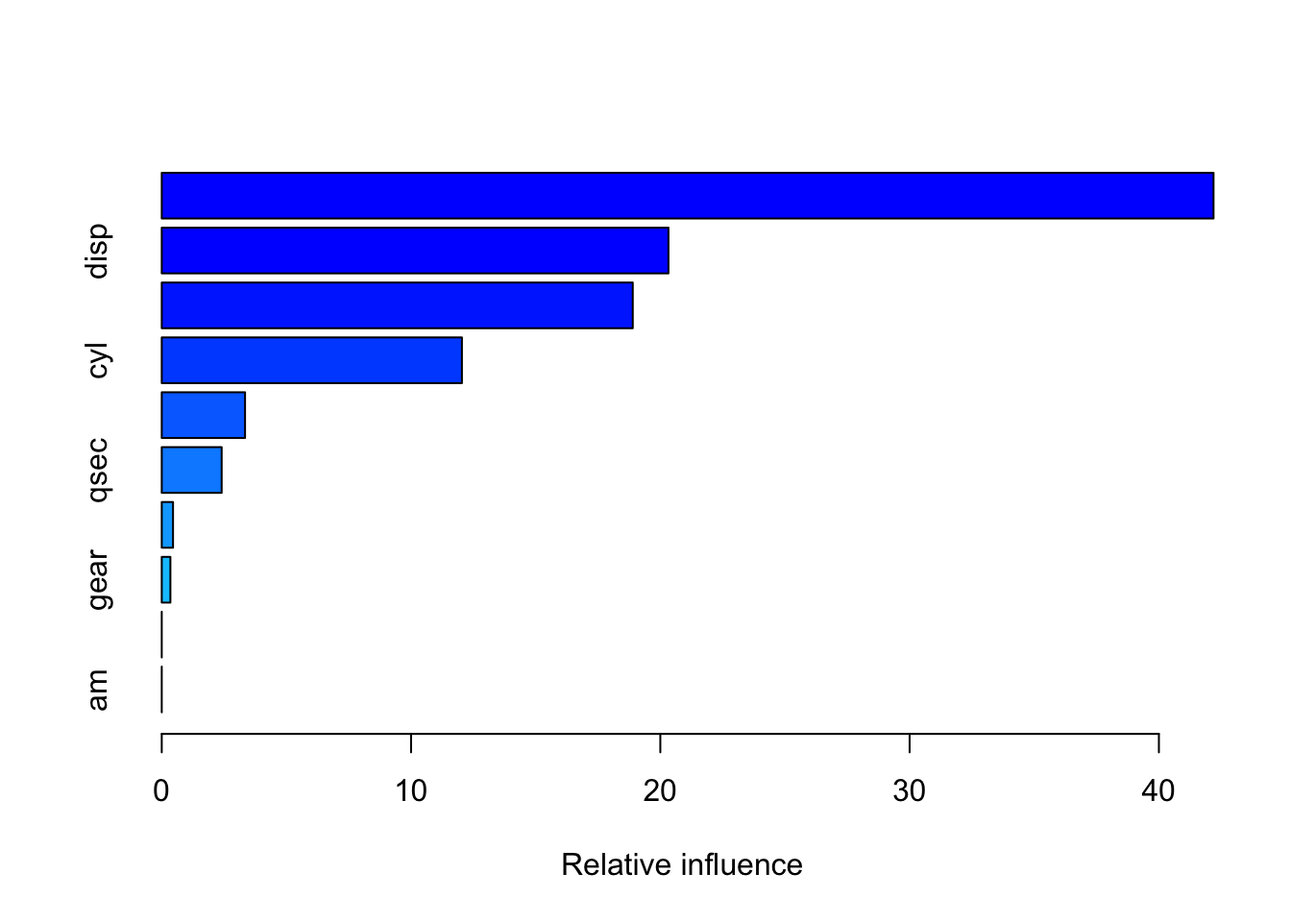
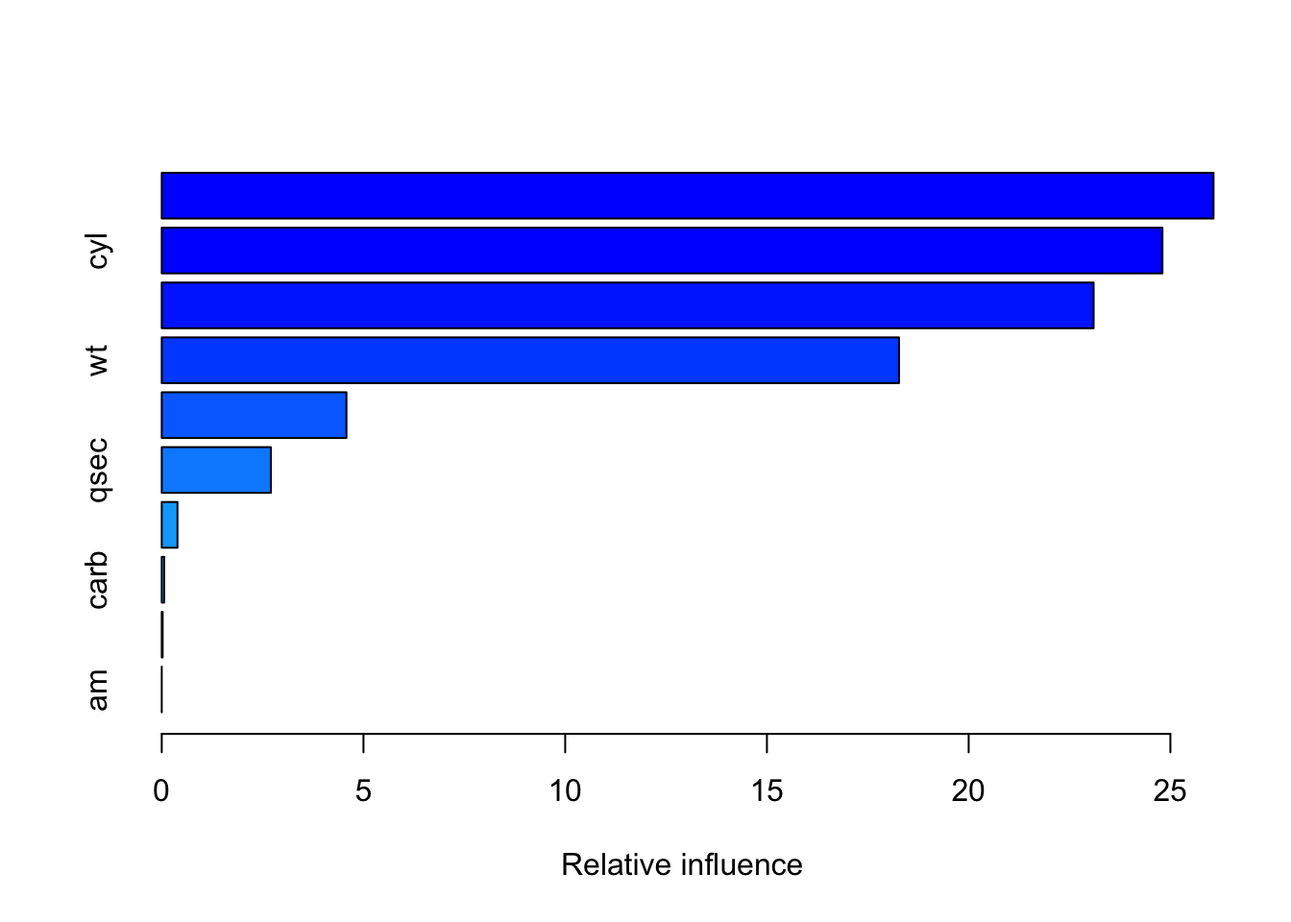
Built site for gh-pages

diff --git a/community.html b/community.html
@@ -210,6 +210,25 @@ Sleekersoft Pty/Ltd</p>
 <p>Very impressive arguments and establishes the point of the title of the talk. The arguments proves the thesis of the talk.</p>
 </blockquote>
 <hr>
+<p><strong>Ozan Evkaya</strong><br>
+University of Edinburgh / R-user group Edinburgh</p>
+<p><img src="community-images/Ozan_Evkaya.png" class="img-fluid" style="width:40.0%"></p>
+<blockquote class="blockquote">
+<p>Some parts feel like generic in terms of explanation, can be more explicit. Mission can be more shortened and targeting one or two at most from the given list Under 1.3 it says Side-by-side analysis so if this is the case code-output pairs should be presented in each of the other related topic blogs in my view.</p>
+</blockquote>
+<p><strong>His opinion on the podcast:</strong></p>
+<blockquote class="blockquote">
+<p>Sounds interesting, well structured but I can feel that generated by AI if I am not wrong : ) Cool supplementary material indeed as a podcast as long as the main content is actually is human written I believe but I can not prove: D I guess there should be some fact chacking since it said Journal of Statistical Software by Biometrics If I heard correctly, this should not be the truth as I checked.</p>
+</blockquote>
+<p><strong>His recommendations to improve content:</strong></p>
+<blockquote class="blockquote">
+<p>For <a href="https://oppkey.github.io/r-beats-python/blog/data-visualization-r-vs-python.html">Data Visualization: R’s ggplot2 vs Python’s matplotlib</a>: For this part “While Python has made progress with libraries like matplotlib, seaborn, and plotly” good to mention nineplot as the alternative of ggplot in python but it seems still limited, also good to highlight altair package in python in addition to seaborn. Better to add their links</p>
+<p>Good to have clickable code and output, directly visible but still with just one example 2.1 and 2.2 comparison does not make sense to me, maybe good to give couple of examples and share the code in R and python side by side</p>
+<p>Good to share their codes and outputs together and maybe it is better to mention their pros and cons via both coding and outcome side Possibly some of the functions in nineplot can reduce the complexity on the created code examples but good to search and double check</p>
+<p>Shinny discussion can be be obsolote since Posit made shiny available for python at a certain level during the last couple of years, I might be careful about this section in general</p>
+<p>In general for me, the list given in 7.3 is incomplete when I think about the ggplot extensions gallery. For part 8, in my understanding, altair in python is a kind of declarative package so python column seems like missing wrt the available packages out there and can be misleading in terms of the given information</p>
+</blockquote>
+<hr>
 <p><strong>Simisani Ndaba</strong><br>
 University of Botswana, co-founder and co-organizer of the R-Ladies Gaborone group</p>
 <p><img src="community-images/simisani_ndaba2.png" class="img-fluid" style="width:40.0%"></p>
@@ -591,53 +610,78 @@ window.document.addEventListener("DOMContentLoaded", function (event) {
 <span id="cb1-39"><a href="#cb1-39" aria-hidden="true" tabindex="-1"></a></span>
 <span id="cb1-40"><a href="#cb1-40" aria-hidden="true" tabindex="-1"></a>---</span>
 <span id="cb1-41"><a href="#cb1-41" aria-hidden="true" tabindex="-1"></a></span>
-<span id="cb1-42"><a href="#cb1-42" aria-hidden="true" tabindex="-1"></a>**Simisani Ndaba**  </span>
-<span id="cb1-43"><a href="#cb1-43" aria-hidden="true" tabindex="-1"></a>University of Botswana, co-founder and co-organizer of the R-Ladies Gaborone group</span>
+<span id="cb1-42"><a href="#cb1-42" aria-hidden="true" tabindex="-1"></a>**Ozan Evkaya**  </span>
+<span id="cb1-43"><a href="#cb1-43" aria-hidden="true" tabindex="-1"></a>University of Edinburgh / R-user group Edinburgh</span>
 <span id="cb1-44"><a href="#cb1-44" aria-hidden="true" tabindex="-1"></a></span>
-<span id="cb1-45"><a href="#cb1-45" aria-hidden="true" tabindex="-1"></a><span class="al">![](community-images/simisani_ndaba2.png)</span>{width=40%}</span>
+<span id="cb1-45"><a href="#cb1-45" aria-hidden="true" tabindex="-1"></a><span class="al">![](community-images/Ozan_Evkaya.png)</span>{width=40%}</span>
 <span id="cb1-46"><a href="#cb1-46" aria-hidden="true" tabindex="-1"></a></span>
-<span id="cb1-47"><a href="#cb1-47" aria-hidden="true" tabindex="-1"></a><span class="at">&gt; Overall the R Beats Python site has a clear and thoughtful mission which is to “provide a reasoned and evidence-based comparison of R vs. python”. It argues, and makes a compelling case, for the future of R in statistical computing and research in the industries and academia with some examples and insights into specific areas. In general, the site seems well placed to serve as a resource for data professionals looking for more sophisticated options for picking tools.</span></span>
-<span id="cb1-48"><a href="#cb1-48" aria-hidden="true" tabindex="-1"></a><span class="at">&gt;</span></span>
-<span id="cb1-49"><a href="#cb1-49" aria-hidden="true" tabindex="-1"></a><span class="at">&gt; I think the article (</span><span class="co">[</span><span class="ot">Statistical Modeling: Why R Outperforms Python</span><span class="co">](https://oppkey.github.io/r-beats-python/blog/statistical-modeling-r-vs-python.html)</span><span class="at">) is a technically capable and well written discussion of statistical modeling in R versus Python. It makes a case for R’s primacy in inferential statistics and somewhat acknowledges Python’s advancements. The Python-side would be more complete with some executable code snippets as well as a more thorough discussion of performance and specialized modeling scenarios, which would appeal to technically-oriented data professionals.</span></span>
+<span id="cb1-47"><a href="#cb1-47" aria-hidden="true" tabindex="-1"></a><span class="at">&gt; Some parts feel like generic in terms of explanation, can be more explicit. Mission can be more shortened and targeting one or two at most from the given list Under 1.3 it says Side-by-side analysis so if this is the case code-output pairs should be presented in each of the other related topic blogs in my view. </span></span>
+<span id="cb1-48"><a href="#cb1-48" aria-hidden="true" tabindex="-1"></a></span>
+<span id="cb1-49"><a href="#cb1-49" aria-hidden="true" tabindex="-1"></a>**His opinion on the podcast:**</span>
 <span id="cb1-50"><a href="#cb1-50" aria-hidden="true" tabindex="-1"></a></span>
-<span id="cb1-51"><a href="#cb1-51" aria-hidden="true" tabindex="-1"></a>---</span>
+<span id="cb1-51"><a href="#cb1-51" aria-hidden="true" tabindex="-1"></a><span class="at">&gt; Sounds interesting, well structured but I can feel that generated by AI if I am not wrong : ) Cool supplementary material indeed as a podcast as long as the main content is actually is human written I believe but I can not prove: D I guess there should be some fact chacking since it said Journal of Statistical Software by Biometrics If I heard correctly, this should not be the truth as I checked. </span></span>
 <span id="cb1-52"><a href="#cb1-52" aria-hidden="true" tabindex="-1"></a></span>
-<span id="cb1-53"><a href="#cb1-53" aria-hidden="true" tabindex="-1"></a>**Her opinion on the podcast:**</span>
+<span id="cb1-53"><a href="#cb1-53" aria-hidden="true" tabindex="-1"></a>**His recommendations to improve content:**</span>
 <span id="cb1-54"><a href="#cb1-54" aria-hidden="true" tabindex="-1"></a></span>
-<span id="cb1-55"><a href="#cb1-55" aria-hidden="true" tabindex="-1"></a><span class="at">&gt; The hosts have a solid grasp of R, not just in terms of its technical capabilities, but also more importantly, how and when it should be used in academia, providing great examples of situations in which R is and will remain necessary to many scholars. The discussion is at a sweet spot along the technical-to-accessible spectrum; it is technical enough to convey the message that R is good for specific things but does not imply that Python is uninviting. In summary, it is a well-produced and well-paced podcast that makes the case for R's continued place in the statistics academy in an interesting way.</span></span>
-<span id="cb1-56"><a href="#cb1-56" aria-hidden="true" tabindex="-1"></a></span>
-<span id="cb1-57"><a href="#cb1-57" aria-hidden="true" tabindex="-1"></a>---</span>
-<span id="cb1-58"><a href="#cb1-58" aria-hidden="true" tabindex="-1"></a></span>
-<span id="cb1-59"><a href="#cb1-59" aria-hidden="true" tabindex="-1"></a>**Ridwan Suleiman Adejumo**  </span>
-<span id="cb1-60"><a href="#cb1-60" aria-hidden="true" tabindex="-1"></a>College of Nursing Science, Federal Teaching Hospital, Gombe, Nigeria - Data Scientist and Biostatistician</span>
-<span id="cb1-61"><a href="#cb1-61" aria-hidden="true" tabindex="-1"></a></span>
-<span id="cb1-62"><a href="#cb1-62" aria-hidden="true" tabindex="-1"></a><span class="al">![](community-images/ridwan_adejumo.png)</span></span>
-<span id="cb1-63"><a href="#cb1-63" aria-hidden="true" tabindex="-1"></a></span>
-<span id="cb1-64"><a href="#cb1-64" aria-hidden="true" tabindex="-1"></a><span class="at">&gt; This is great, as the number of individuals trying to learn R is declining, and most people think R is meant for those in academia or Pharma. I think instead of showing R strengths, places where Python excel like llm development, prompt engineering, and AI agent development should be emphasized in R. Most individuals are not familiar that R can also do a lot of these things.</span></span>
-<span id="cb1-65"><a href="#cb1-65" aria-hidden="true" tabindex="-1"></a><span class="at">&gt;</span></span>
-<span id="cb1-66"><a href="#cb1-66" aria-hidden="true" tabindex="-1"></a><span class="at">&gt; Web development should not also be left behind, like developing APIs and backend applications with R.</span></span>
-<span id="cb1-67"><a href="#cb1-67" aria-hidden="true" tabindex="-1"></a></span>
-<span id="cb1-68"><a href="#cb1-68" aria-hidden="true" tabindex="-1"></a>---</span>
+<span id="cb1-55"><a href="#cb1-55" aria-hidden="true" tabindex="-1"></a><span class="at">&gt; For </span><span class="co">[</span><span class="ot">Data Visualization: R’s ggplot2 vs Python’s matplotlib</span><span class="co">](https://oppkey.github.io/r-beats-python/blog/data-visualization-r-vs-python.html)</span><span class="at">: For this part "While Python has made progress with libraries like matplotlib, seaborn, and plotly" good to mention nineplot as the alternative of ggplot in python but it seems still limited, also good to highlight altair package in python in addition to seaborn. Better to add their links </span></span>
+<span id="cb1-56"><a href="#cb1-56" aria-hidden="true" tabindex="-1"></a><span class="at">&gt;</span></span>
+<span id="cb1-57"><a href="#cb1-57" aria-hidden="true" tabindex="-1"></a><span class="at">&gt; Good to have clickable code and output, directly visible but still with just one example 2.1 and 2.2 comparison does not make sense to me, maybe good to give couple of examples and share the code in R and python side by side</span></span>
+<span id="cb1-58"><a href="#cb1-58" aria-hidden="true" tabindex="-1"></a><span class="at">&gt;</span></span>
+<span id="cb1-59"><a href="#cb1-59" aria-hidden="true" tabindex="-1"></a><span class="at">&gt; Good to share their codes and outputs together and maybe it is better to mention their pros and cons via both coding and outcome side Possibly some of the functions in nineplot can reduce the complexity on the created code examples but good to search and double check</span></span>
+<span id="cb1-60"><a href="#cb1-60" aria-hidden="true" tabindex="-1"></a><span class="at">&gt;</span></span>
+<span id="cb1-61"><a href="#cb1-61" aria-hidden="true" tabindex="-1"></a><span class="at">&gt; Shinny discussion can be be obsolote since Posit made shiny available for python at a certain level during the last couple of years, I might be careful about this section in general </span></span>
+<span id="cb1-62"><a href="#cb1-62" aria-hidden="true" tabindex="-1"></a><span class="at">&gt;</span></span>
+<span id="cb1-63"><a href="#cb1-63" aria-hidden="true" tabindex="-1"></a><span class="at">&gt; In general for me, the list given in 7.3 is incomplete when I think about the ggplot extensions gallery. For part 8, in my understanding, altair in python is a kind of declarative package so python column seems like missing wrt the available packages out there and can be misleading in terms of the given information </span></span>
+<span id="cb1-64"><a href="#cb1-64" aria-hidden="true" tabindex="-1"></a></span>
+<span id="cb1-65"><a href="#cb1-65" aria-hidden="true" tabindex="-1"></a>---</span>
+<span id="cb1-66"><a href="#cb1-66" aria-hidden="true" tabindex="-1"></a></span>
+<span id="cb1-67"><a href="#cb1-67" aria-hidden="true" tabindex="-1"></a>**Simisani Ndaba**  </span>
+<span id="cb1-68"><a href="#cb1-68" aria-hidden="true" tabindex="-1"></a>University of Botswana, co-founder and co-organizer of the R-Ladies Gaborone group</span>
 <span id="cb1-69"><a href="#cb1-69" aria-hidden="true" tabindex="-1"></a></span>
-<span id="cb1-70"><a href="#cb1-70" aria-hidden="true" tabindex="-1"></a>**His recommendations to improve content:**</span>
+<span id="cb1-70"><a href="#cb1-70" aria-hidden="true" tabindex="-1"></a><span class="al">![](community-images/simisani_ndaba2.png)</span>{width=40%}</span>
 <span id="cb1-71"><a href="#cb1-71" aria-hidden="true" tabindex="-1"></a></span>
-<span id="cb1-72"><a href="#cb1-72" aria-hidden="true" tabindex="-1"></a><span class="at">&gt; The article (</span><span class="co">[</span><span class="ot">Statistical Modeling: Why R Outperforms Python</span><span class="co">](https://oppkey.github.io/r-beats-python/blog/statistical-modeling-r-vs-python.html)</span><span class="at">) lacks proper explanation of what's happening in the code, and there is not test to actually measure the strengths and weakness of Python and R.</span></span>
-<span id="cb1-73"><a href="#cb1-73" aria-hidden="true" tabindex="-1"></a></span>
-<span id="cb1-74"><a href="#cb1-74" aria-hidden="true" tabindex="-1"></a>---</span>
+<span id="cb1-72"><a href="#cb1-72" aria-hidden="true" tabindex="-1"></a><span class="at">&gt; Overall the R Beats Python site has a clear and thoughtful mission which is to “provide a reasoned and evidence-based comparison of R vs. python”. It argues, and makes a compelling case, for the future of R in statistical computing and research in the industries and academia with some examples and insights into specific areas. In general, the site seems well placed to serve as a resource for data professionals looking for more sophisticated options for picking tools.</span></span>
+<span id="cb1-73"><a href="#cb1-73" aria-hidden="true" tabindex="-1"></a><span class="at">&gt;</span></span>
+<span id="cb1-74"><a href="#cb1-74" aria-hidden="true" tabindex="-1"></a><span class="at">&gt; I think the article (</span><span class="co">[</span><span class="ot">Statistical Modeling: Why R Outperforms Python</span><span class="co">](https://oppkey.github.io/r-beats-python/blog/statistical-modeling-r-vs-python.html)</span><span class="at">) is a technically capable and well written discussion of statistical modeling in R versus Python. It makes a case for R’s primacy in inferential statistics and somewhat acknowledges Python’s advancements. The Python-side would be more complete with some executable code snippets as well as a more thorough discussion of performance and specialized modeling scenarios, which would appeal to technically-oriented data professionals.</span></span>
 <span id="cb1-75"><a href="#cb1-75" aria-hidden="true" tabindex="-1"></a></span>
-<span id="cb1-76"><a href="#cb1-76" aria-hidden="true" tabindex="-1"></a>**His opinion on the podcast:**</span>
+<span id="cb1-76"><a href="#cb1-76" aria-hidden="true" tabindex="-1"></a>---</span>
 <span id="cb1-77"><a href="#cb1-77" aria-hidden="true" tabindex="-1"></a></span>
-<span id="cb1-78"><a href="#cb1-78" aria-hidden="true" tabindex="-1"></a><span class="at">&gt; I like the podcast, and it's clear and interactive. The presenters explained a lot of the strengths of R.</span></span>
+<span id="cb1-78"><a href="#cb1-78" aria-hidden="true" tabindex="-1"></a>**Her opinion on the podcast:**</span>
 <span id="cb1-79"><a href="#cb1-79" aria-hidden="true" tabindex="-1"></a></span>
-<span id="cb1-80"><a href="#cb1-80" aria-hidden="true" tabindex="-1"></a>---</span>
+<span id="cb1-80"><a href="#cb1-80" aria-hidden="true" tabindex="-1"></a><span class="at">&gt; The hosts have a solid grasp of R, not just in terms of its technical capabilities, but also more importantly, how and when it should be used in academia, providing great examples of situations in which R is and will remain necessary to many scholars. The discussion is at a sweet spot along the technical-to-accessible spectrum; it is technical enough to convey the message that R is good for specific things but does not imply that Python is uninviting. In summary, it is a well-produced and well-paced podcast that makes the case for R's continued place in the statistics academy in an interesting way.</span></span>
 <span id="cb1-81"><a href="#cb1-81" aria-hidden="true" tabindex="-1"></a></span>
-<span id="cb1-82"><a href="#cb1-82" aria-hidden="true" tabindex="-1"></a></span>
+<span id="cb1-82"><a href="#cb1-82" aria-hidden="true" tabindex="-1"></a>---</span>
 <span id="cb1-83"><a href="#cb1-83" aria-hidden="true" tabindex="-1"></a></span>
-<span id="cb1-84"><a href="#cb1-84" aria-hidden="true" tabindex="-1"></a>*More community testimonials and feedback will be added here as we grow.*</span>
-<span id="cb1-85"><a href="#cb1-85" aria-hidden="true" tabindex="-1"></a></span>
-<span id="cb1-86"><a href="#cb1-86" aria-hidden="true" tabindex="-1"></a>---</span>
-<span id="cb1-87"><a href="#cb1-87" aria-hidden="true" tabindex="-1"></a></span>
-<span id="cb1-88"><a href="#cb1-88" aria-hidden="true" tabindex="-1"></a>*Join our community and help shape the future of R Beats Python. If you are interested, please [fill out this form](https://docs.google.com/forms/d/195cDbf52GbMJmH1bbM5iiwb0RJFfEBKFu-Nb2h6LYK8/edit) to provide your opinion.* </span></code><button title="Copy to Clipboard" class="code-copy-button"><i class="bi"></i></button></pre></div>
+<span id="cb1-84"><a href="#cb1-84" aria-hidden="true" tabindex="-1"></a>**Ridwan Suleiman Adejumo**  </span>
+<span id="cb1-85"><a href="#cb1-85" aria-hidden="true" tabindex="-1"></a>College of Nursing Science, Federal Teaching Hospital, Gombe, Nigeria - Data Scientist and Biostatistician</span>
+<span id="cb1-86"><a href="#cb1-86" aria-hidden="true" tabindex="-1"></a></span>
+<span id="cb1-87"><a href="#cb1-87" aria-hidden="true" tabindex="-1"></a><span class="al">![](community-images/ridwan_adejumo.png)</span></span>
+<span id="cb1-88"><a href="#cb1-88" aria-hidden="true" tabindex="-1"></a></span>
+<span id="cb1-89"><a href="#cb1-89" aria-hidden="true" tabindex="-1"></a><span class="at">&gt; This is great, as the number of individuals trying to learn R is declining, and most people think R is meant for those in academia or Pharma. I think instead of showing R strengths, places where Python excel like llm development, prompt engineering, and AI agent development should be emphasized in R. Most individuals are not familiar that R can also do a lot of these things.</span></span>
+<span id="cb1-90"><a href="#cb1-90" aria-hidden="true" tabindex="-1"></a><span class="at">&gt;</span></span>
+<span id="cb1-91"><a href="#cb1-91" aria-hidden="true" tabindex="-1"></a><span class="at">&gt; Web development should not also be left behind, like developing APIs and backend applications with R.</span></span>
+<span id="cb1-92"><a href="#cb1-92" aria-hidden="true" tabindex="-1"></a></span>
+<span id="cb1-93"><a href="#cb1-93" aria-hidden="true" tabindex="-1"></a>---</span>
+<span id="cb1-94"><a href="#cb1-94" aria-hidden="true" tabindex="-1"></a></span>
+<span id="cb1-95"><a href="#cb1-95" aria-hidden="true" tabindex="-1"></a>**His recommendations to improve content:**</span>
+<span id="cb1-96"><a href="#cb1-96" aria-hidden="true" tabindex="-1"></a></span>
+<span id="cb1-97"><a href="#cb1-97" aria-hidden="true" tabindex="-1"></a><span class="at">&gt; The article (</span><span class="co">[</span><span class="ot">Statistical Modeling: Why R Outperforms Python</span><span class="co">](https://oppkey.github.io/r-beats-python/blog/statistical-modeling-r-vs-python.html)</span><span class="at">) lacks proper explanation of what's happening in the code, and there is not test to actually measure the strengths and weakness of Python and R.</span></span>
+<span id="cb1-98"><a href="#cb1-98" aria-hidden="true" tabindex="-1"></a></span>
+<span id="cb1-99"><a href="#cb1-99" aria-hidden="true" tabindex="-1"></a>---</span>
+<span id="cb1-100"><a href="#cb1-100" aria-hidden="true" tabindex="-1"></a></span>
+<span id="cb1-101"><a href="#cb1-101" aria-hidden="true" tabindex="-1"></a>**His opinion on the podcast:**</span>
+<span id="cb1-102"><a href="#cb1-102" aria-hidden="true" tabindex="-1"></a></span>
+<span id="cb1-103"><a href="#cb1-103" aria-hidden="true" tabindex="-1"></a><span class="at">&gt; I like the podcast, and it's clear and interactive. The presenters explained a lot of the strengths of R.</span></span>
+<span id="cb1-104"><a href="#cb1-104" aria-hidden="true" tabindex="-1"></a></span>
+<span id="cb1-105"><a href="#cb1-105" aria-hidden="true" tabindex="-1"></a>---</span>
+<span id="cb1-106"><a href="#cb1-106" aria-hidden="true" tabindex="-1"></a></span>
+<span id="cb1-107"><a href="#cb1-107" aria-hidden="true" tabindex="-1"></a></span>
+<span id="cb1-108"><a href="#cb1-108" aria-hidden="true" tabindex="-1"></a></span>
+<span id="cb1-109"><a href="#cb1-109" aria-hidden="true" tabindex="-1"></a>*More community testimonials and feedback will be added here as we grow.*</span>
+<span id="cb1-110"><a href="#cb1-110" aria-hidden="true" tabindex="-1"></a></span>
+<span id="cb1-111"><a href="#cb1-111" aria-hidden="true" tabindex="-1"></a>---</span>
+<span id="cb1-112"><a href="#cb1-112" aria-hidden="true" tabindex="-1"></a></span>
+<span id="cb1-113"><a href="#cb1-113" aria-hidden="true" tabindex="-1"></a>*Join our community and help shape the future of R Beats Python. If you are interested, please [fill out this form](https://docs.google.com/forms/d/195cDbf52GbMJmH1bbM5iiwb0RJFfEBKFu-Nb2h6LYK8/edit) to provide your opinion.* </span></code><button title="Copy to Clipboard" class="code-copy-button"><i class="bi"></i></button></pre></div>
 </div></div></div></div></div>
 </div> <!-- /content -->
 

diff --git a/blog/reproducible-research-r-vs-python.html b/blog/reproducible-research-r-vs-python.html
@@ -520,8 +520,8 @@ F-statistic: 70.91 on 2 and 29 DF,  p-value: 6.809e-12</code></pre>
 <span id="cb12-9"><a href="#cb12-9" aria-hidden="true" tabindex="-1"></a><span class="fu">ggplotly</span>(p)</span></code><button title="Copy to Clipboard" class="code-copy-button"><i class="bi"></i></button></pre></div>
 </details>
 <div class="cell-output-display">
-<div class="plotly html-widget html-fill-item" id="htmlwidget-84a512c8354ec82b9f23" style="width:100%;height:464px;"></div>
-<script type="application/json" data-for="htmlwidget-84a512c8354ec82b9f23">{"x":{"data":[{"x":[2.3199999999999998,3.1899999999999999,3.1499999999999999,2.2000000000000002,1.615,1.835,2.4649999999999999,1.9350000000000001,2.1400000000000001,1.5129999999999999,2.7799999999999998],"y":[22.800000000000001,24.399999999999999,22.800000000000001,32.399999999999999,30.399999999999999,33.899999999999999,21.5,27.300000000000001,26,30.399999999999999,21.399999999999999],"text":["wt: 2.320<br />mpg: 22.8<br />factor(cyl): 4","wt: 3.190<br />mpg: 24.4<br />factor(cyl): 4","wt: 3.150<br />mpg: 22.8<br />factor(cyl): 4","wt: 2.200<br />mpg: 32.4<br />factor(cyl): 4","wt: 1.615<br />mpg: 30.4<br />factor(cyl): 4","wt: 1.835<br />mpg: 33.9<br />factor(cyl): 4","wt: 2.465<br />mpg: 21.5<br />factor(cyl): 4","wt: 1.935<br />mpg: 27.3<br />factor(cyl): 4","wt: 2.140<br />mpg: 26.0<br />factor(cyl): 4","wt: 1.513<br />mpg: 30.4<br />factor(cyl): 4","wt: 2.780<br />mpg: 21.4<br />factor(cyl): 4"],"type":"scatter","mode":"markers","marker":{"autocolorscale":false,"color":"rgba(248,118,109,1)","opacity":1,"size":5.6692913385826778,"symbol":"circle","line":{"width":1.8897637795275593,"color":"rgba(248,118,109,1)"}},"hoveron":"points","name":"4","legendgroup":"4","showlegend":true,"xaxis":"x","yaxis":"y","hoverinfo":"text","frame":null},{"x":[2.6200000000000001,2.875,3.2149999999999999,3.46,3.4399999999999999,3.4399999999999999,2.77],"y":[21,21,21.399999999999999,18.100000000000001,19.199999999999999,17.800000000000001,19.699999999999999],"text":["wt: 2.620<br />mpg: 21.0<br />factor(cyl): 6","wt: 2.875<br />mpg: 21.0<br />factor(cyl): 6","wt: 3.215<br />mpg: 21.4<br />factor(cyl): 6","wt: 3.460<br />mpg: 18.1<br />factor(cyl): 6","wt: 3.440<br />mpg: 19.2<br />factor(cyl): 6","wt: 3.440<br />mpg: 17.8<br />factor(cyl): 6","wt: 2.770<br />mpg: 19.7<br />factor(cyl): 6"],"type":"scatter","mode":"markers","marker":{"autocolorscale":false,"color":"rgba(0,186,56,1)","opacity":1,"size":5.6692913385826778,"symbol":"circle","line":{"width":1.8897637795275593,"color":"rgba(0,186,56,1)"}},"hoveron":"points","name":"6","legendgroup":"6","showlegend":true,"xaxis":"x","yaxis":"y","hoverinfo":"text","frame":null},{"x":[3.4399999999999999,3.5699999999999998,4.0700000000000003,3.73,3.7799999999999998,5.25,5.4240000000000004,5.3449999999999998,3.52,3.4350000000000001,3.8399999999999999,3.8450000000000002,3.1699999999999999,3.5699999999999998],"y":[18.699999999999999,14.300000000000001,16.399999999999999,17.300000000000001,15.199999999999999,10.4,10.4,14.699999999999999,15.5,15.199999999999999,13.300000000000001,19.199999999999999,15.800000000000001,15],"text":["wt: 3.440<br />mpg: 18.7<br />factor(cyl): 8","wt: 3.570<br />mpg: 14.3<br />factor(cyl): 8","wt: 4.070<br />mpg: 16.4<br />factor(cyl): 8","wt: 3.730<br />mpg: 17.3<br />factor(cyl): 8","wt: 3.780<br />mpg: 15.2<br />factor(cyl): 8","wt: 5.250<br />mpg: 10.4<br />factor(cyl): 8","wt: 5.424<br />mpg: 10.4<br />factor(cyl): 8","wt: 5.345<br />mpg: 14.7<br />factor(cyl): 8","wt: 3.520<br />mpg: 15.5<br />factor(cyl): 8","wt: 3.435<br />mpg: 15.2<br />factor(cyl): 8","wt: 3.840<br />mpg: 13.3<br />factor(cyl): 8","wt: 3.845<br />mpg: 19.2<br />factor(cyl): 8","wt: 3.170<br />mpg: 15.8<br />factor(cyl): 8","wt: 3.570<br />mpg: 15.0<br />factor(cyl): 8"],"type":"scatter","mode":"markers","marker":{"autocolorscale":false,"color":"rgba(97,156,255,1)","opacity":1,"size":5.6692913385826778,"symbol":"circle","line":{"width":1.8897637795275593,"color":"rgba(97,156,255,1)"}},"hoveron":"points","name":"8","legendgroup":"8","showlegend":true,"xaxis":"x","yaxis":"y","hoverinfo":"text","frame":null}],"layout":{"margin":{"t":26.228310502283108,"r":7.3059360730593621,"b":40.182648401826498,"l":37.260273972602747},"font":{"color":"rgba(0,0,0,1)","family":"","size":14.611872146118724},"xaxis":{"domain":[0,1],"automargin":true,"type":"linear","autorange":false,"range":[1.3174499999999998,5.6195500000000003],"tickmode":"array","ticktext":["2","3","4","5"],"tickvals":[2,3,4,5],"categoryorder":"array","categoryarray":["2","3","4","5"],"nticks":null,"ticks":"","tickcolor":null,"ticklen":3.6529680365296811,"tickwidth":0,"showticklabels":true,"tickfont":{"color":"rgba(77,77,77,1)","family":"","size":11.68949771689498},"tickangle":-0,"showline":false,"linecolor":null,"linewidth":0,"showgrid":true,"gridcolor":"rgba(235,235,235,1)","gridwidth":0.66417600664176002,"zeroline":false,"anchor":"y","title":{"text":"wt","font":{"color":"rgba(0,0,0,1)","family":"","size":14.611872146118724}},"hoverformat":".2f"},"yaxis":{"domain":[0,1],"automargin":true,"type":"linear","autorange":false,"range":[9.2249999999999996,35.074999999999996],"tickmode":"array","ticktext":["10","15","20","25","30","35"],"tickvals":[10,15,20,25,30,35],"categoryorder":"array","categoryarray":["10","15","20","25","30","35"],"nticks":null,"ticks":"","tickcolor":null,"ticklen":3.6529680365296811,"tickwidth":0,"showticklabels":true,"tickfont":{"color":"rgba(77,77,77,1)","family":"","size":11.68949771689498},"tickangle":-0,"showline":false,"linecolor":null,"linewidth":0,"showgrid":true,"gridcolor":"rgba(235,235,235,1)","gridwidth":0.66417600664176002,"zeroline":false,"anchor":"x","title":{"text":"mpg","font":{"color":"rgba(0,0,0,1)","family":"","size":14.611872146118724}},"hoverformat":".2f"},"shapes":[{"type":"rect","fillcolor":null,"line":{"color":null,"width":0,"linetype":[]},"yref":"paper","xref":"paper","layer":"below","x0":0,"x1":1,"y0":0,"y1":1}],"showlegend":true,"legend":{"bgcolor":null,"bordercolor":null,"borderwidth":0,"font":{"color":"rgba(0,0,0,1)","family":"","size":11.68949771689498},"title":{"text":"factor(cyl)","font":{"color":"rgba(0,0,0,1)","family":"","size":14.611872146118724}}},"hovermode":"closest","barmode":"relative"},"config":{"doubleClick":"reset","modeBarButtonsToAdd":["hoverclosest","hovercompare"],"showSendToCloud":false},"source":"A","attrs":{"1195049b1836e":{"x":{},"y":{},"colour":{},"type":"scatter"}},"cur_data":"1195049b1836e","visdat":{"1195049b1836e":["function (y) ","x"]},"highlight":{"on":"plotly_click","persistent":false,"dynamic":false,"selectize":false,"opacityDim":0.20000000000000001,"selected":{"opacity":1},"debounce":0},"shinyEvents":["plotly_hover","plotly_click","plotly_selected","plotly_relayout","plotly_brushed","plotly_brushing","plotly_clickannotation","plotly_doubleclick","plotly_deselect","plotly_afterplot","plotly_sunburstclick"],"base_url":"https://plot.ly"},"evals":[],"jsHooks":[]}</script>
+<div class="plotly html-widget html-fill-item" id="htmlwidget-ff1de9a934a6b914b80e" style="width:100%;height:464px;"></div>
+<script type="application/json" data-for="htmlwidget-ff1de9a934a6b914b80e">{"x":{"data":[{"x":[2.3199999999999998,3.1899999999999999,3.1499999999999999,2.2000000000000002,1.615,1.835,2.4649999999999999,1.9350000000000001,2.1400000000000001,1.5129999999999999,2.7799999999999998],"y":[22.800000000000001,24.399999999999999,22.800000000000001,32.399999999999999,30.399999999999999,33.899999999999999,21.5,27.300000000000001,26,30.399999999999999,21.399999999999999],"text":["wt: 2.320<br />mpg: 22.8<br />factor(cyl): 4","wt: 3.190<br />mpg: 24.4<br />factor(cyl): 4","wt: 3.150<br />mpg: 22.8<br />factor(cyl): 4","wt: 2.200<br />mpg: 32.4<br />factor(cyl): 4","wt: 1.615<br />mpg: 30.4<br />factor(cyl): 4","wt: 1.835<br />mpg: 33.9<br />factor(cyl): 4","wt: 2.465<br />mpg: 21.5<br />factor(cyl): 4","wt: 1.935<br />mpg: 27.3<br />factor(cyl): 4","wt: 2.140<br />mpg: 26.0<br />factor(cyl): 4","wt: 1.513<br />mpg: 30.4<br />factor(cyl): 4","wt: 2.780<br />mpg: 21.4<br />factor(cyl): 4"],"type":"scatter","mode":"markers","marker":{"autocolorscale":false,"color":"rgba(248,118,109,1)","opacity":1,"size":5.6692913385826778,"symbol":"circle","line":{"width":1.8897637795275593,"color":"rgba(248,118,109,1)"}},"hoveron":"points","name":"4","legendgroup":"4","showlegend":true,"xaxis":"x","yaxis":"y","hoverinfo":"text","frame":null},{"x":[2.6200000000000001,2.875,3.2149999999999999,3.46,3.4399999999999999,3.4399999999999999,2.77],"y":[21,21,21.399999999999999,18.100000000000001,19.199999999999999,17.800000000000001,19.699999999999999],"text":["wt: 2.620<br />mpg: 21.0<br />factor(cyl): 6","wt: 2.875<br />mpg: 21.0<br />factor(cyl): 6","wt: 3.215<br />mpg: 21.4<br />factor(cyl): 6","wt: 3.460<br />mpg: 18.1<br />factor(cyl): 6","wt: 3.440<br />mpg: 19.2<br />factor(cyl): 6","wt: 3.440<br />mpg: 17.8<br />factor(cyl): 6","wt: 2.770<br />mpg: 19.7<br />factor(cyl): 6"],"type":"scatter","mode":"markers","marker":{"autocolorscale":false,"color":"rgba(0,186,56,1)","opacity":1,"size":5.6692913385826778,"symbol":"circle","line":{"width":1.8897637795275593,"color":"rgba(0,186,56,1)"}},"hoveron":"points","name":"6","legendgroup":"6","showlegend":true,"xaxis":"x","yaxis":"y","hoverinfo":"text","frame":null},{"x":[3.4399999999999999,3.5699999999999998,4.0700000000000003,3.73,3.7799999999999998,5.25,5.4240000000000004,5.3449999999999998,3.52,3.4350000000000001,3.8399999999999999,3.8450000000000002,3.1699999999999999,3.5699999999999998],"y":[18.699999999999999,14.300000000000001,16.399999999999999,17.300000000000001,15.199999999999999,10.4,10.4,14.699999999999999,15.5,15.199999999999999,13.300000000000001,19.199999999999999,15.800000000000001,15],"text":["wt: 3.440<br />mpg: 18.7<br />factor(cyl): 8","wt: 3.570<br />mpg: 14.3<br />factor(cyl): 8","wt: 4.070<br />mpg: 16.4<br />factor(cyl): 8","wt: 3.730<br />mpg: 17.3<br />factor(cyl): 8","wt: 3.780<br />mpg: 15.2<br />factor(cyl): 8","wt: 5.250<br />mpg: 10.4<br />factor(cyl): 8","wt: 5.424<br />mpg: 10.4<br />factor(cyl): 8","wt: 5.345<br />mpg: 14.7<br />factor(cyl): 8","wt: 3.520<br />mpg: 15.5<br />factor(cyl): 8","wt: 3.435<br />mpg: 15.2<br />factor(cyl): 8","wt: 3.840<br />mpg: 13.3<br />factor(cyl): 8","wt: 3.845<br />mpg: 19.2<br />factor(cyl): 8","wt: 3.170<br />mpg: 15.8<br />factor(cyl): 8","wt: 3.570<br />mpg: 15.0<br />factor(cyl): 8"],"type":"scatter","mode":"markers","marker":{"autocolorscale":false,"color":"rgba(97,156,255,1)","opacity":1,"size":5.6692913385826778,"symbol":"circle","line":{"width":1.8897637795275593,"color":"rgba(97,156,255,1)"}},"hoveron":"points","name":"8","legendgroup":"8","showlegend":true,"xaxis":"x","yaxis":"y","hoverinfo":"text","frame":null}],"layout":{"margin":{"t":26.228310502283108,"r":7.3059360730593621,"b":40.182648401826498,"l":37.260273972602747},"font":{"color":"rgba(0,0,0,1)","family":"","size":14.611872146118724},"xaxis":{"domain":[0,1],"automargin":true,"type":"linear","autorange":false,"range":[1.3174499999999998,5.6195500000000003],"tickmode":"array","ticktext":["2","3","4","5"],"tickvals":[2,3,4,5],"categoryorder":"array","categoryarray":["2","3","4","5"],"nticks":null,"ticks":"","tickcolor":null,"ticklen":3.6529680365296811,"tickwidth":0,"showticklabels":true,"tickfont":{"color":"rgba(77,77,77,1)","family":"","size":11.68949771689498},"tickangle":-0,"showline":false,"linecolor":null,"linewidth":0,"showgrid":true,"gridcolor":"rgba(235,235,235,1)","gridwidth":0.66417600664176002,"zeroline":false,"anchor":"y","title":{"text":"wt","font":{"color":"rgba(0,0,0,1)","family":"","size":14.611872146118724}},"hoverformat":".2f"},"yaxis":{"domain":[0,1],"automargin":true,"type":"linear","autorange":false,"range":[9.2249999999999996,35.074999999999996],"tickmode":"array","ticktext":["10","15","20","25","30","35"],"tickvals":[10,15,20,25,30,35],"categoryorder":"array","categoryarray":["10","15","20","25","30","35"],"nticks":null,"ticks":"","tickcolor":null,"ticklen":3.6529680365296811,"tickwidth":0,"showticklabels":true,"tickfont":{"color":"rgba(77,77,77,1)","family":"","size":11.68949771689498},"tickangle":-0,"showline":false,"linecolor":null,"linewidth":0,"showgrid":true,"gridcolor":"rgba(235,235,235,1)","gridwidth":0.66417600664176002,"zeroline":false,"anchor":"x","title":{"text":"mpg","font":{"color":"rgba(0,0,0,1)","family":"","size":14.611872146118724}},"hoverformat":".2f"},"shapes":[{"type":"rect","fillcolor":null,"line":{"color":null,"width":0,"linetype":[]},"yref":"paper","xref":"paper","layer":"below","x0":0,"x1":1,"y0":0,"y1":1}],"showlegend":true,"legend":{"bgcolor":null,"bordercolor":null,"borderwidth":0,"font":{"color":"rgba(0,0,0,1)","family":"","size":11.68949771689498},"title":{"text":"factor(cyl)","font":{"color":"rgba(0,0,0,1)","family":"","size":14.611872146118724}}},"hovermode":"closest","barmode":"relative"},"config":{"doubleClick":"reset","modeBarButtonsToAdd":["hoverclosest","hovercompare"],"showSendToCloud":false},"source":"A","attrs":{"11de4124a4d1b":{"x":{},"y":{},"colour":{},"type":"scatter"}},"cur_data":"11de4124a4d1b","visdat":{"11de4124a4d1b":["function (y) ","x"]},"highlight":{"on":"plotly_click","persistent":false,"dynamic":false,"selectize":false,"opacityDim":0.20000000000000001,"selected":{"opacity":1},"debounce":0},"shinyEvents":["plotly_hover","plotly_click","plotly_selected","plotly_relayout","plotly_brushed","plotly_brushing","plotly_clickannotation","plotly_doubleclick","plotly_deselect","plotly_afterplot","plotly_sunburstclick"],"base_url":"https://plot.ly"},"evals":[],"jsHooks":[]}</script>
 </div>
 </div>
 </section>

diff --git a/blog/machine-learning-r-vs-python.html b/blog/machine-learning-r-vs-python.html
@@ -428,16 +428,16 @@ Signif. codes:  0 '***' 0.001 '**' 0.01 '*' 0.05 '.' 0.1 ' ' 1</code></pre>
 </details>
 <div class="cell-output cell-output-stdout">
 <pre><code>       %IncMSE IncNodePurity
-cyl  11.158590     144.52790
-disp 12.823190     231.74934
-hp   14.555000     223.01764
-drat  3.818485      64.99185
-wt   13.473035     276.12985
-qsec  2.727211      31.40021
-vs    3.284511      19.16810
-am    4.051135      15.76650
-gear  3.332445      10.45265
-carb  5.199508      33.49232</code></pre>
+cyl  12.125345     162.31503
+disp 13.048088     228.11918
+hp   12.870479     201.28106
+drat  5.735561      58.50235
+wt   13.589604     263.24172
+qsec  3.659191      33.77266
+vs    3.790125      23.03365
+am    3.752571      11.57492
+gear  2.926445      19.75952
+carb  5.073329      39.23015</code></pre>
 </div>
 <details>
 <summary>Code</summary>
@@ -480,17 +480,17 @@ carb  5.199508      33.49232</code></pre>
 <p><img src="machine-learning-r-vs-python_files/figure-html/unnamed-chunk-6-1.png" class="img-fluid" width="672"></p>
 </div>
 <div class="cell-output cell-output-stdout">
-<pre><code>      var    rel.inf
-wt     wt 42.1918490
-disp disp 20.3263084
-hp     hp 18.8949868
-cyl   cyl 12.0417598
-drat drat  3.3418397
-qsec qsec  2.4035619
-carb carb  0.4529796
-gear gear  0.3467148
-vs     vs  0.0000000
-am     am  0.0000000</code></pre>
+<pre><code>      var     rel.inf
+hp     hp 26.06952015
+cyl   cyl 24.80280017
+disp disp 23.09724151
+wt     wt 18.27417514
+drat drat  4.57806192
+qsec qsec  2.70445942
+gear gear  0.39012258
+carb carb  0.06125475
+vs     vs  0.02236437
+am     am  0.00000000</code></pre>
 </div>
 <details>
 <summary>Code</summary>
@@ -616,8 +616,8 @@ W = 0.93455, p-value = 0.05252</code></pre>
 <pre><code>
 SAMPLING FOR MODEL 'continuous' NOW (CHAIN 1).
 Chain 1: 
-Chain 1: Gradient evaluation took 0.000214 seconds
-Chain 1: 1000 transitions using 10 leapfrog steps per transition would take 2.14 seconds.
+Chain 1: Gradient evaluation took 0.001541 seconds
+Chain 1: 1000 transitions using 10 leapfrog steps per transition would take 15.41 seconds.
 Chain 1: Adjust your expectations accordingly!
 Chain 1: 
 Chain 1: 
@@ -634,15 +634,15 @@ Chain 1: Iteration: 1600 / 2000 [ 80%]  (Sampling)
 Chain 1: Iteration: 1800 / 2000 [ 90%]  (Sampling)
 Chain 1: Iteration: 2000 / 2000 [100%]  (Sampling)
 Chain 1: 
-Chain 1:  Elapsed Time: 0.024 seconds (Warm-up)
+Chain 1:  Elapsed Time: 0.023 seconds (Warm-up)
 Chain 1:                0.024 seconds (Sampling)
-Chain 1:                0.048 seconds (Total)
+Chain 1:                0.047 seconds (Total)
 Chain 1: 
 
 SAMPLING FOR MODEL 'continuous' NOW (CHAIN 2).
 Chain 2: 
-Chain 2: Gradient evaluation took 3e-06 seconds
-Chain 2: 1000 transitions using 10 leapfrog steps per transition would take 0.03 seconds.
+Chain 2: Gradient evaluation took 4e-06 seconds
+Chain 2: 1000 transitions using 10 leapfrog steps per transition would take 0.04 seconds.
 Chain 2: Adjust your expectations accordingly!
 Chain 2: 
 Chain 2: 
@@ -659,15 +659,15 @@ Chain 2: Iteration: 1600 / 2000 [ 80%]  (Sampling)
 Chain 2: Iteration: 1800 / 2000 [ 90%]  (Sampling)
 Chain 2: Iteration: 2000 / 2000 [100%]  (Sampling)
 Chain 2: 
-Chain 2:  Elapsed Time: 0.025 seconds (Warm-up)
+Chain 2:  Elapsed Time: 0.027 seconds (Warm-up)
 Chain 2:                0.022 seconds (Sampling)
-Chain 2:                0.047 seconds (Total)
+Chain 2:                0.049 seconds (Total)
 Chain 2: 
 
 SAMPLING FOR MODEL 'continuous' NOW (CHAIN 3).
 Chain 3: 
-Chain 3: Gradient evaluation took 2e-06 seconds
-Chain 3: 1000 transitions using 10 leapfrog steps per transition would take 0.02 seconds.
+Chain 3: Gradient evaluation took 3e-06 seconds
+Chain 3: 1000 transitions using 10 leapfrog steps per transition would take 0.03 seconds.
 Chain 3: Adjust your expectations accordingly!
 Chain 3: 
 Chain 3: 
@@ -684,9 +684,9 @@ Chain 3: Iteration: 1600 / 2000 [ 80%]  (Sampling)
 Chain 3: Iteration: 1800 / 2000 [ 90%]  (Sampling)
 Chain 3: Iteration: 2000 / 2000 [100%]  (Sampling)
 Chain 3: 
-Chain 3:  Elapsed Time: 0.023 seconds (Warm-up)
-Chain 3:                0.02 seconds (Sampling)
-Chain 3:                0.043 seconds (Total)
+Chain 3:  Elapsed Time: 0.024 seconds (Warm-up)
+Chain 3:                0.026 seconds (Sampling)
+Chain 3:                0.05 seconds (Total)
 Chain 3: 
 
 SAMPLING FOR MODEL 'continuous' NOW (CHAIN 4).
@@ -709,9 +709,9 @@ Chain 4: Iteration: 1600 / 2000 [ 80%]  (Sampling)
 Chain 4: Iteration: 1800 / 2000 [ 90%]  (Sampling)
 Chain 4: Iteration: 2000 / 2000 [100%]  (Sampling)
 Chain 4: 
-Chain 4:  Elapsed Time: 0.023 seconds (Warm-up)
-Chain 4:                0.064 seconds (Sampling)
-Chain 4:                0.087 seconds (Total)
+Chain 4:  Elapsed Time: 0.024 seconds (Warm-up)
+Chain 4:                0.025 seconds (Sampling)
+Chain 4:                0.049 seconds (Total)
 Chain 4: </code></pre>
 </div>
 <details>
@@ -720,11 +720,11 @@ Chain 4: </code></pre>
 <span id="cb31-2"><a href="#cb31-2" aria-hidden="true" tabindex="-1"></a><span class="fu">posterior_interval</span>(bayes_model)</span></code><button title="Copy to Clipboard" class="code-copy-button"><i class="bi"></i></button></pre></div>
 </details>
 <div class="cell-output cell-output-stdout">
-<pre><code>                   5%        95%
-(Intercept) 36.837538 42.6016202
-wt          -4.478444 -1.8722380
-cyl         -2.238384 -0.8170185
-sigma        2.129834  3.3143021</code></pre>
+<pre><code>                   5%       95%
+(Intercept) 36.738587 42.598592
+wt          -4.470188 -1.893146
+cyl         -2.217332 -0.820590
+sigma        2.139593  3.311828</code></pre>
 </div>
 <details>
 <summary>Code</summary>

diff --git a/blog/time-series-analysis-r-vs-python.html b/blog/time-series-analysis-r-vs-python.html
@@ -405,16 +405,16 @@ Model df: 1.   Total lags used: 5</code></pre>
 <span id="cb15-8"><a href="#cb15-8" aria-hidden="true" tabindex="-1"></a>bsts_model <span class="ot">&lt;-</span> <span class="fu">bsts</span>(ts_data, <span class="at">state.specification =</span> ss_model, <span class="at">niter =</span> <span class="dv">1000</span>)</span></code><button title="Copy to Clipboard" class="code-copy-button"><i class="bi"></i></button></pre></div>
 </details>
 <div class="cell-output cell-output-stdout">
-<pre><code>=-=-=-=-= Iteration 0 Thu Jul 24 11:18:09 2025 =-=-=-=-=
-=-=-=-=-= Iteration 100 Thu Jul 24 11:18:09 2025 =-=-=-=-=
-=-=-=-=-= Iteration 200 Thu Jul 24 11:18:09 2025 =-=-=-=-=
-=-=-=-=-= Iteration 300 Thu Jul 24 11:18:09 2025 =-=-=-=-=
-=-=-=-=-= Iteration 400 Thu Jul 24 11:18:09 2025 =-=-=-=-=
-=-=-=-=-= Iteration 500 Thu Jul 24 11:18:09 2025 =-=-=-=-=
-=-=-=-=-= Iteration 600 Thu Jul 24 11:18:09 2025 =-=-=-=-=
-=-=-=-=-= Iteration 700 Thu Jul 24 11:18:09 2025 =-=-=-=-=
-=-=-=-=-= Iteration 800 Thu Jul 24 11:18:09 2025 =-=-=-=-=
-=-=-=-=-= Iteration 900 Thu Jul 24 11:18:09 2025 =-=-=-=-=</code></pre>
+<pre><code>=-=-=-=-= Iteration 0 Thu Jul 24 11:33:33 2025 =-=-=-=-=
+=-=-=-=-= Iteration 100 Thu Jul 24 11:33:33 2025 =-=-=-=-=
+=-=-=-=-= Iteration 200 Thu Jul 24 11:33:33 2025 =-=-=-=-=
+=-=-=-=-= Iteration 300 Thu Jul 24 11:33:33 2025 =-=-=-=-=
+=-=-=-=-= Iteration 400 Thu Jul 24 11:33:33 2025 =-=-=-=-=
+=-=-=-=-= Iteration 500 Thu Jul 24 11:33:33 2025 =-=-=-=-=
+=-=-=-=-= Iteration 600 Thu Jul 24 11:33:33 2025 =-=-=-=-=
+=-=-=-=-= Iteration 700 Thu Jul 24 11:33:33 2025 =-=-=-=-=
+=-=-=-=-= Iteration 800 Thu Jul 24 11:33:33 2025 =-=-=-=-=
+=-=-=-=-= Iteration 900 Thu Jul 24 11:33:33 2025 =-=-=-=-=</code></pre>
 </div>
 <details>
 <summary>Code</summary>

diff --git a/blog/academic-research-r-vs-python.html b/blog/academic-research-r-vs-python.html
@@ -467,7 +467,7 @@ Signif. codes:  0 '***' 0.001 '**' 0.01 '*' 0.05 '.' 0.1 ' ' 1</code></pre>
 </details>
 <div class="cell-output cell-output-stdout">
 <pre><code>% latex table generated in R 4.5.0 by xtable 1.8-4 package
-% Thu Jul 24 11:17:48 2025
+% Thu Jul 24 11:33:14 2025
 \begin{table}[ht]
 \centering
 \begin{tabular}{rrrrr}
@@ -493,7 +493,7 @@ Signif. codes:  0 '***' 0.001 '**' 0.01 '*' 0.05 '.' 0.1 ' ' 1</code></pre>
 <div class="cell-output cell-output-stdout">
 <pre><code>
 % Table created by stargazer v.5.2.3 by Marek Hlavac, Social Policy Institute. E-mail: marek.hlavac at gmail.com
-% Date and time: Thu, Jul 24, 2025 - 11:17:48
+% Date and time: Thu, Jul 24, 2025 - 11:33:14
 \begin{table}[!htbp] \centering 
   \caption{Regression Results} 
   \label{} 

diff --git a/blog/statistical-modeling-r-vs-python.html b/blog/statistical-modeling-r-vs-python.html
@@ -593,7 +593,7 @@ sample estimates:
 </details>
 <div class="cell-output cell-output-stdout">
 <pre><code> lag Autocorrelation D-W Statistic p-value
-   1       0.1302185      1.671096    0.27
+   1       0.1302185      1.671096   0.278
  Alternative hypothesis: rho != 0</code></pre>
 </div>
 </div>
